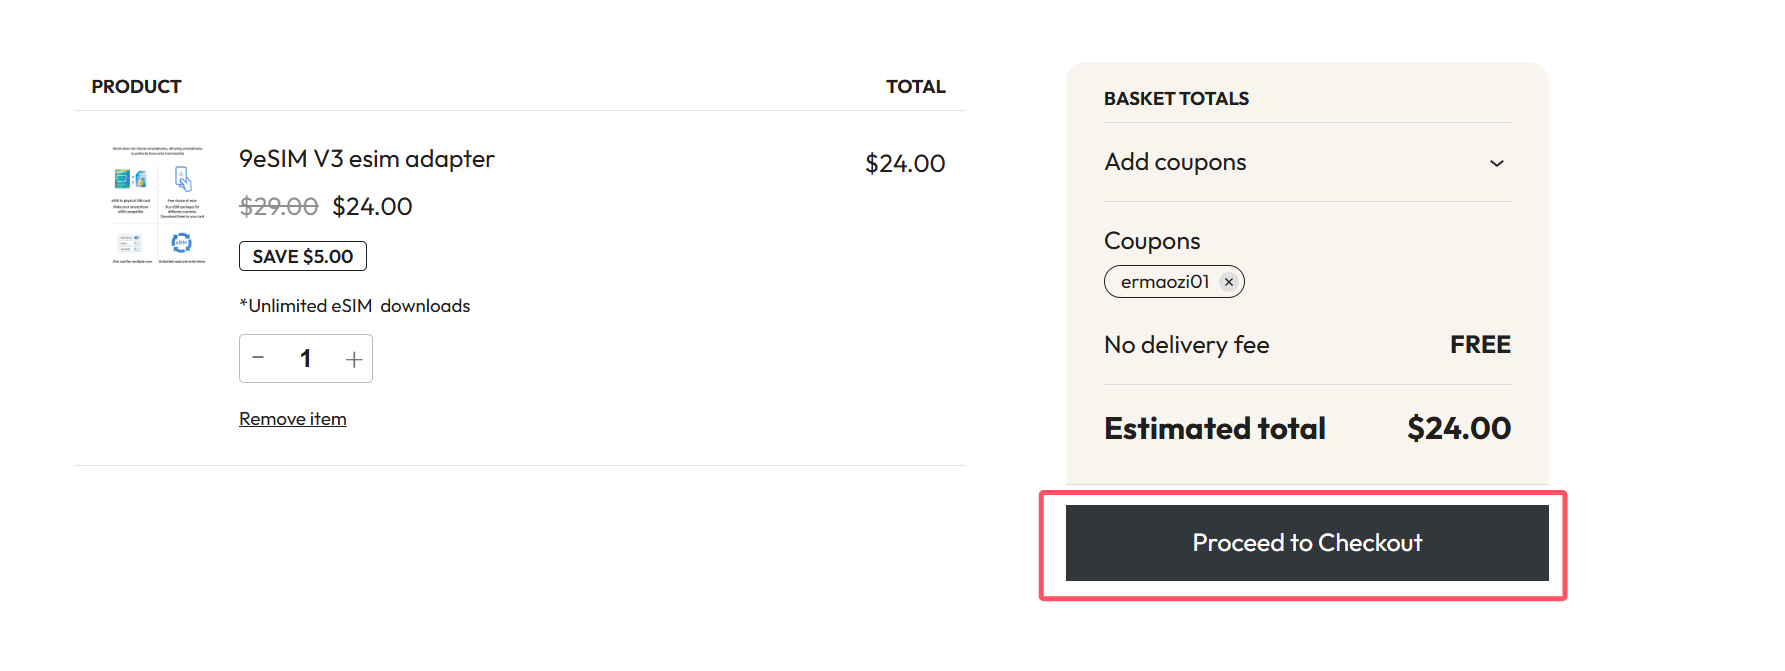
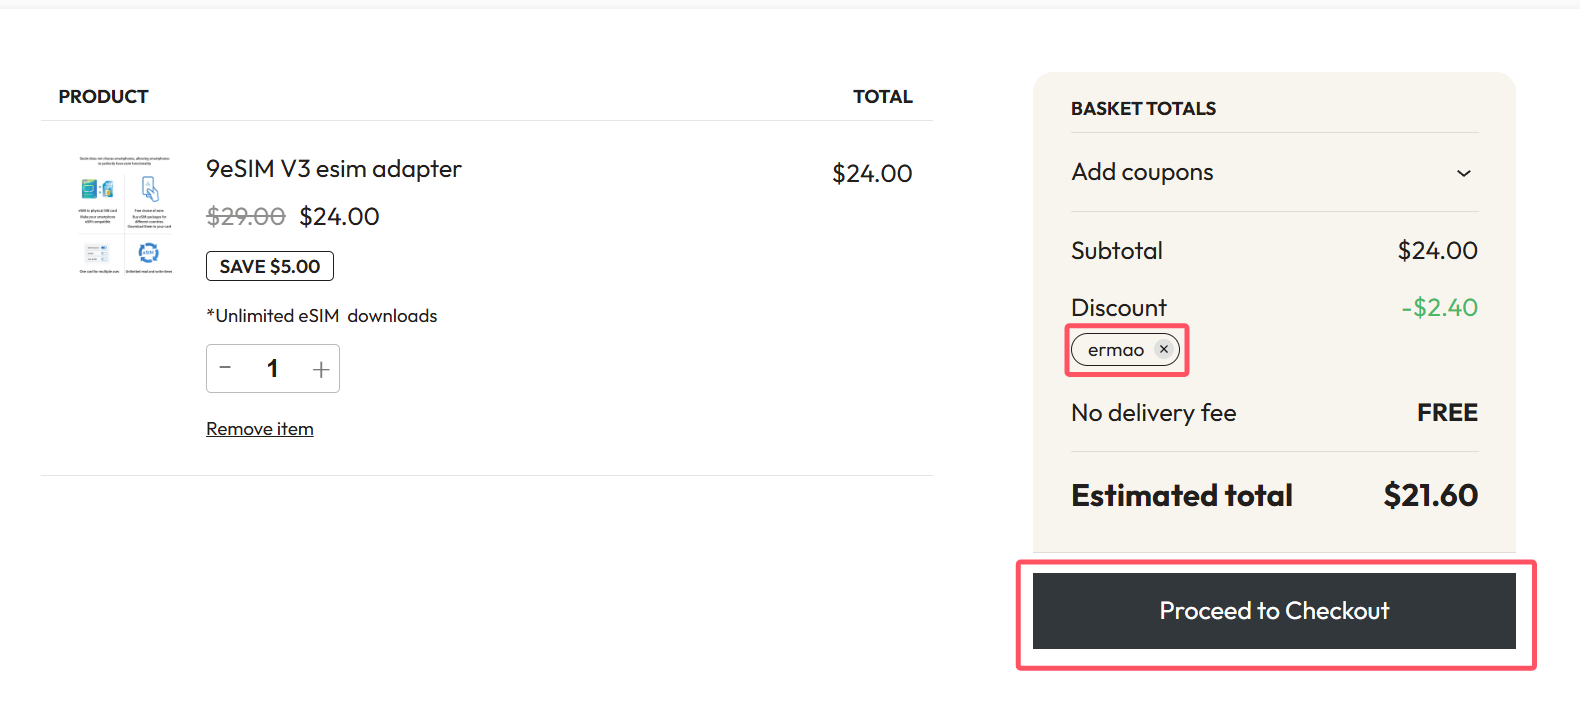
修改 9esim 优惠码

diff --git a/docs/blog/文档/9esim使用指南.md b/docs/blog/文档/9esim使用指南.md
@@ -34,9 +34,11 @@ description: 2025年实测 9esim使用指南完整教程：购买9esim v3卡和e
 
 | 项目 | 费用 | 说明 |
 |------|------|------|
-| 9esim v3 卡 | 24 美元 | 一次性购买，支持多次写卡 |
+| 9esim v3 卡 | 21.6 美元 | 一次性购买，支持多次写卡 |
 | eSIM Plus 应用 | 5.75 美元 | 虚拟手机号服务 |
-| 总计 | 约 199 元人民币 | 比传统 SIM 卡更经济 |
+| 总计 | 约 195 元人民币 | 比传统 SIM 卡更经济 |
+
+9esim v3 卡原价是24美元，这里可以使用我的推广码 `ermao` 享受9折优惠，实付21.6美元。
 
 > 💡 **提示**：相比其他服务商，9esim 提供高性价比的虚拟手机号解决方案。
 
@@ -44,7 +46,7 @@ description: 2025年实测 9esim使用指南完整教程：购买9esim v3卡和e
 
 ## 如何购买 9esim v3 卡
 
-1. **访问官网**：前往 [9esim 官网](https://www.9esim.com/?coupon=ermaozi01)，注册并登录账号。
+1. **访问官网**：前往 [9esim 官网](https://www.9esim.com/?coupon=ermao)，注册并登录账号。
 
 2. **选择产品**：点击 "Buy now"。
 
@@ -54,7 +56,7 @@ description: 2025年实测 9esim使用指南完整教程：购买9esim v3卡和e
 
 ![9esim Add to basket](images/9esim使用指南/image-3.png)
 
-4. **结账**：点击 "Proceed to checkout"，填写收货信息，选择微信支付。
+4. **结账**：点击 "Proceed to checkout"，填写收货信息，选择微信支付。如果没有优惠码的话，在付款前点击 "Add coupons" 输入 `ermao` 享受9折优惠。
 
 ![9esim Proceed to checkout](images/9esim使用指南/image-4.png)
 
